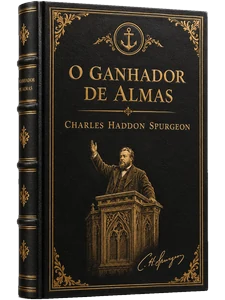
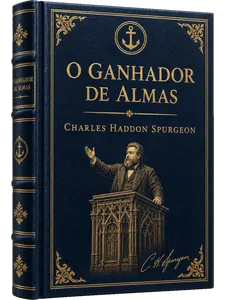
Refaz as capas de O Ganhador de Almas e Pescadores de Crianças
Cores novas (azul-marinho e azul-céu) que combinam com o tema e deixam de se confundir com as
capas vizinhas, e tools/capa_para_webp.py para converter os renders em WebP com fundo transparente.

diff --git a/tools/capa_para_webp.py b/tools/capa_para_webp.py
@@ -1,0 +1,53 @@
+"""Converte o render de uma capa (PNG sobre fundo branco) em WebP 225x300 com fundo transparente.
+
+Uso: python tools/capa_para_webp.py <png> <slug>   (grava assets/imagens/capa_<slug>.webp)
+
+O fundo é o que se liga à borda da imagem e é claro e sem cor; a sombra de contato sai junto.
+O livro é recortado rente e encaixado em 225x300, como as outras capas.
+"""
+
+import sys
+from pathlib import Path
+
+import numpy as np
+from PIL import Image
+from scipy import ndimage
+
+DESTINO = Path(__file__).resolve().parent.parent / "assets" / "imagens"
+LARGURA, ALTURA = 225, 300
+BRILHO_MINIMO_DO_FUNDO = 130
+SATURACAO_MAXIMA_DO_FUNDO = 22
+
+
+def mascara_do_livro(rgb: np.ndarray) -> np.ndarray:
+    claro_e_sem_cor = (rgb.min(axis=2) >= BRILHO_MINIMO_DO_FUNDO) & (
+        rgb.max(axis=2).astype(int) - rgb.min(axis=2) <= SATURACAO_MAXIMA_DO_FUNDO
+    )
+    rotulos, _ = ndimage.label(claro_e_sem_cor)
+    borda = np.unique(np.concatenate([rotulos[0], rotulos[-1], rotulos[:, 0], rotulos[:, -1]]))
+    fundo = np.isin(rotulos, borda[borda > 0])
+    livro = ndimage.binary_opening(~fundo, structure=np.ones((5, 5)))
+    rotulos, quantidade = ndimage.label(livro)
+    maior = np.argmax(ndimage.sum(livro, rotulos, range(1, quantidade + 1))) + 1
+    return ndimage.binary_fill_holes(rotulos == maior)
+
+
+def converter(origem: Path, slug: str) -> Path:
+    imagem = Image.open(origem).convert("RGB")
+    livro = mascara_do_livro(np.array(imagem))
+    recuada = ndimage.binary_erosion(livro, iterations=1)
+    alfa = ndimage.gaussian_filter(recuada.astype(float), 0.8)
+    rgba = imagem.convert("RGBA")
+    rgba.putalpha(Image.fromarray((alfa * 255).astype(np.uint8)))
+    rgba = rgba.crop(rgba.getchannel("A").point(lambda v: 255 if v > 8 else 0).getbbox())
+    escala = min(ALTURA / rgba.height, LARGURA / rgba.width)
+    rgba = rgba.resize((round(rgba.width * escala), round(rgba.height * escala)), Image.LANCZOS)
+    tela = Image.new("RGBA", (LARGURA, ALTURA), (0, 0, 0, 0))
+    tela.paste(rgba, ((LARGURA - rgba.width) // 2, (ALTURA - rgba.height) // 2))
+    saida = DESTINO / f"capa_{slug}.webp"
+    tela.save(saida, "WEBP", quality=82, method=6, alpha_quality=90)
+    return saida
+
+
+if __name__ == "__main__":
+    print(converter(Path(sys.argv[1]), sys.argv[2]))
